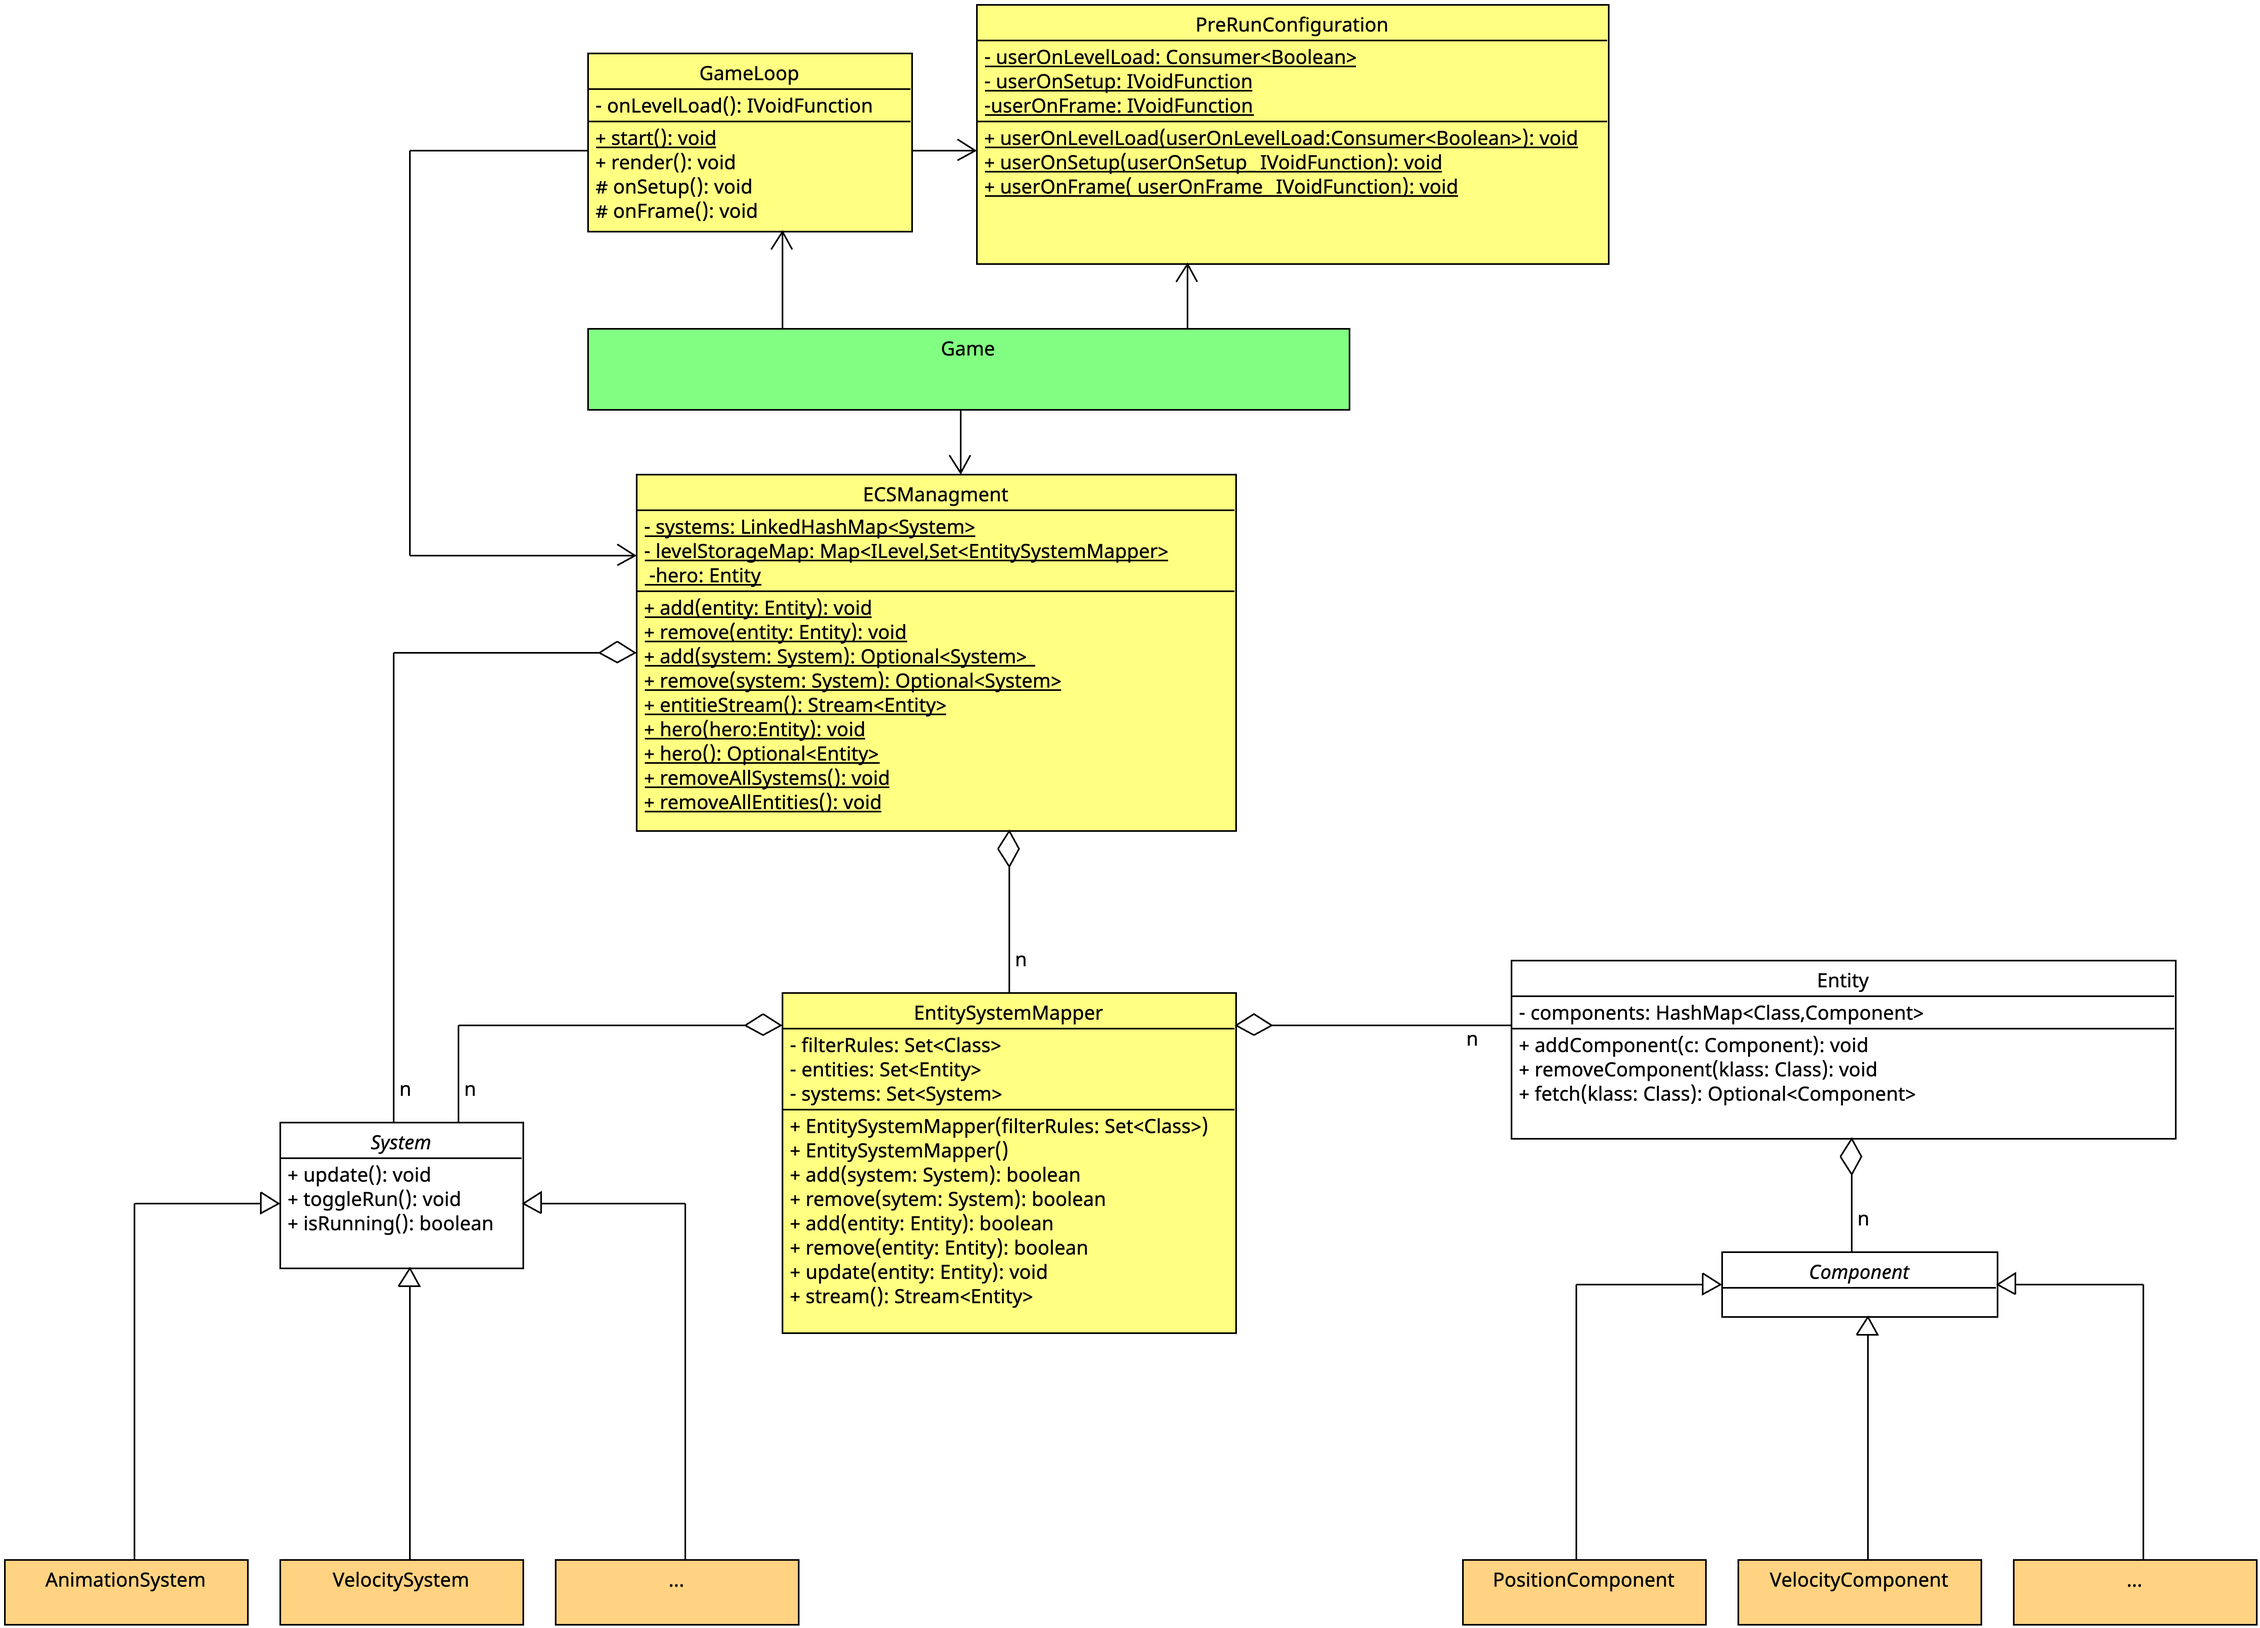
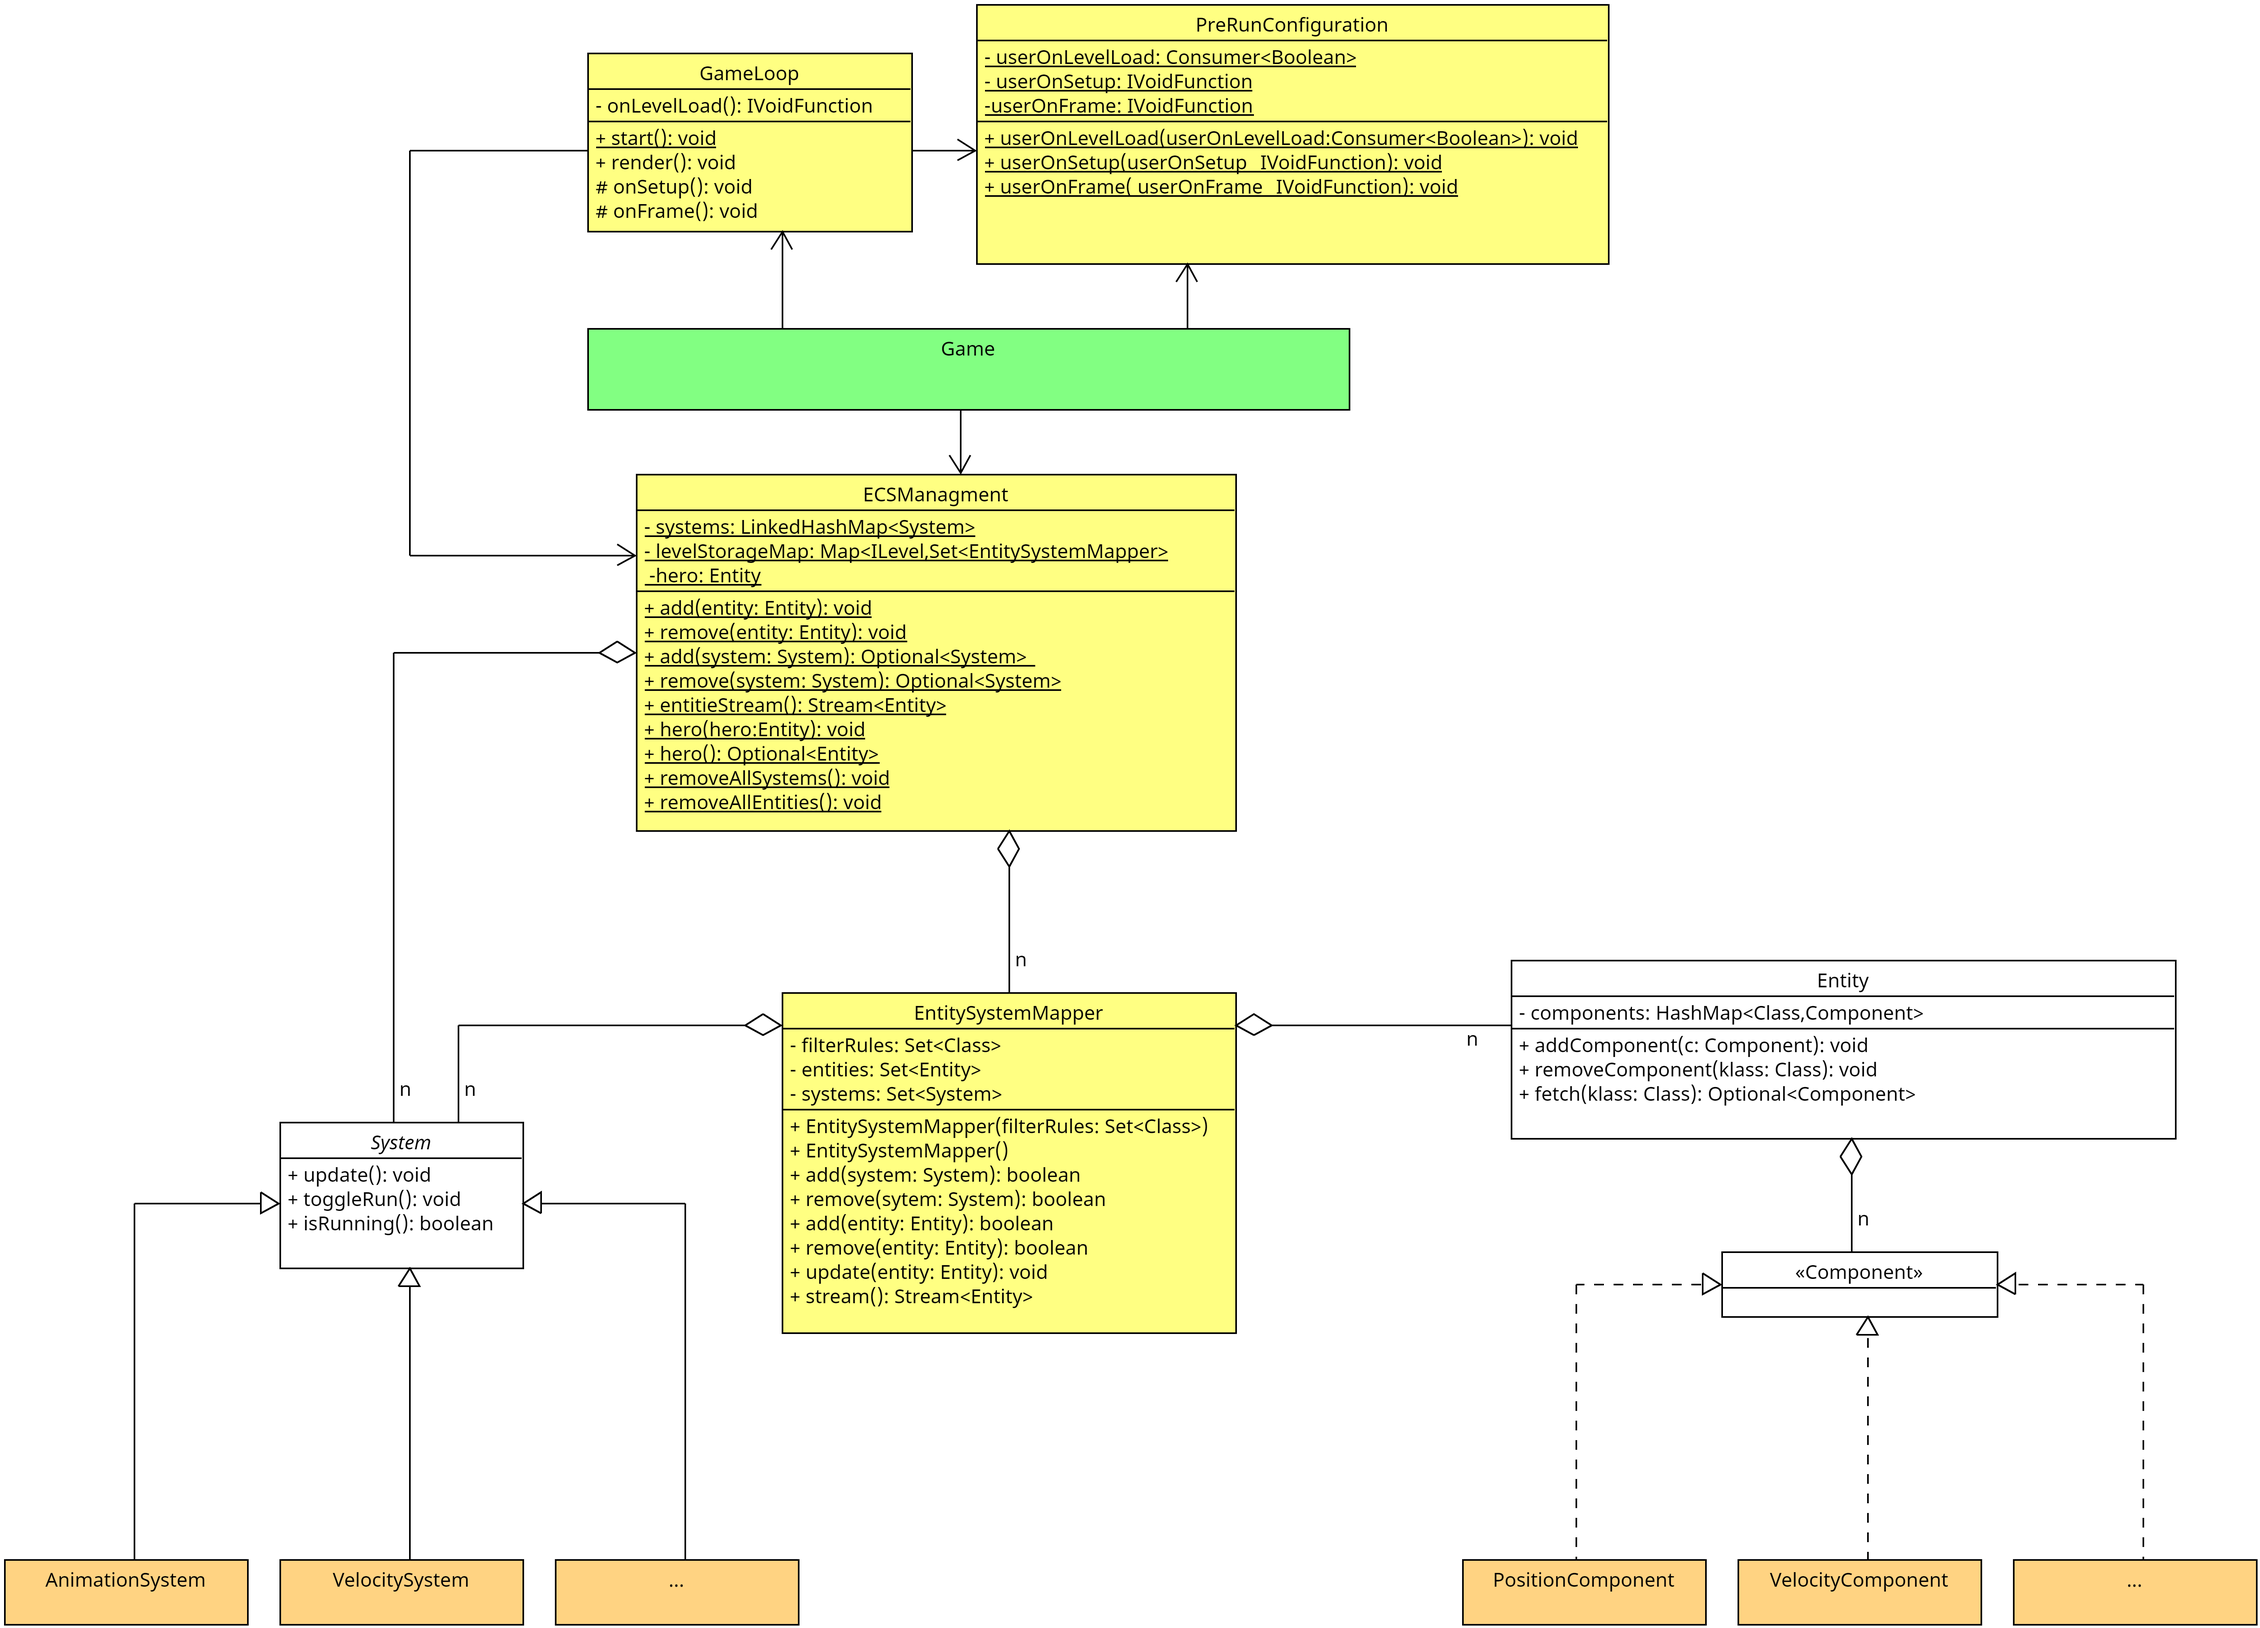
update 'wichtige Klassen'

diff --git a/game/doc/quickstart.md b/game/doc/quickstart.md
@@ -5,7 +5,8 @@ title: "Quickstart: How to Dungeon"
 Dieses Dokument liefert einen Einstieg in das Dungeon. Es erläutert die Installation des Spiels und die ersten Schritte,
 um eigene Inhalte zum Dungeon hinzuzufügen. Es dient als Grundlage für alle weiteren Praktika. Lesen Sie das Dokument
 daher aufmerksam durch und versuchen Sie sich zusätzlich selbst mit dem Aufbau vertraut zu machen. Das Spiel befindet
-sich im [Dungeon-Repo](https://github.com/Programmiermethoden/Dungeon) im Projekt [`game`](https://github.com/Programmiermethoden/Dungeon/tree/master/game).
+sich im [Dungeon-Repo](https://github.com/Programmiermethoden/Dungeon) im Projekt
+[`game`](https://github.com/Programmiermethoden/Dungeon/tree/master/game).
 
 Sie benötigen nur dieses Projekt für die Aufgaben; die zusätzlichen Abhängigkeiten werden automatisch über Gradle
 eingebunden.
@@ -22,12 +23,12 @@ Laden Sie das Projekt herunter und binden Sie es als Gradle-Projekt in Ihre IDE 
 [Anleitung](../../doc/wiki/import-project.md) finden Sie in dem Projekt-Wiki.
 
 Sie können über die run-Funktion Ihrer IDE überprüfen, ob die Installation lauffähig ist. Alternativ können Sie per
-Konsole in das Dungeon-Root-Verzeichnis wechseln und `./gradlew run` ausführen. Es sollte sich das bereits vorimplementierte Spiel starten.
+Konsole in das Dungeon-Root-Verzeichnis wechseln und `./gradlew run` ausführen. Es sollte sich das bereits
+vorimplementierte Spiel starten.
 
 *Hinweis:* Falls Sie Probleme beim Installieren haben, schauen Sie in die
-[Kompatibilitätsliste](../../doc/wiki/jdk-Kompatibilitaet.md) und die
-[FAQ](../../doc/wiki/faq.md). Melden Sie sich frühzeitig, falls Ihr Problem damit
-nicht behoben werden konnte.
+[Kompatibilitätsliste](../../doc/wiki/jdk-Kompatibilitaet.md) und die [FAQ](../../doc/wiki/faq.md). Melden Sie sich
+frühzeitig, falls Ihr Problem damit nicht behoben werden konnte.
 
 ## Grundlagen
 
@@ -47,8 +48,8 @@ Lebenspunkte) - `System`: Systeme beinhalten die eigentliche Logik und agieren a
 
 Weiteres dazu erfahren Sie unter [ECS im Dungeon](ecs_basics.md).
 
-Sie selbst nutzen und erweitern die `Component`s und `System`s der Vorgaben. Sie werden ebenfalls neue Entities,
-Components und Systeme konzipieren und implementieren. So erschaffen Sie z.B. Ihre eigenen Monster und fallengespickte
+Sie selbst nutzen und erweitern die `Component`s und `System`s der Vorgaben. Sie werden ebenfalls neue Entitäten,
+Komponenten und Systeme konzipieren und implementieren. So erschaffen Sie z.B. Ihre eigenen Monster und fallengespickte
 Level.
 
 Sie werden im Laufe der Praktika verschiedene Assets benötigen. Diese liegen per Default im `assets`-Verzeichnis. Sie
@@ -66,35 +67,28 @@ In diesem Abschnitt werden Ihnen die wichtigsten Klassen im Dungeon vorgestellt.
 
 *Anmerkung:* Das UML ist für bessere Lesbarkeit auf die wesentlichen Bestandteile gekürzt.
 
-Die in Grün gekennzeichnete Klasse `Game` ist die Basisklasse, von der alles ausgeht. Die Methode `Game#render` ist die
-Game-Loop. Das ECS wird durch die in weiß gekennzeichneten Klassen `Entity`, `Component` und `System` implementiert.
-Im weiteren Verlauf wird noch genauer hierauf eingegangen.
+Die in Grün markierte Klasse `Game` ist die zentrale API-Klasse für das Framework. Es liefert Ihnen Zugriff auf die in
+Gelb markierten Klassen (Sie können über `Game` auf alle Schnittstellen der in Gelb markierten Klassen zugreifen). Die
+Methode `GameLoop#render` ist die Gameloop.
 
-Neu erzeugte Entitäten speichern sich automatisch im HashSet `entities` der `Game`-Klasse ab. `System`e speichern
-sich automatisch im `SystemController` `systems` der `Game`-Klasse ab.
+Das ECS wird durch die in Weiß markierten Klassen `Entity`, `Component` und `System` gekennzeichnet.
 
-Die Systeme iterieren über die in `Game` gespeicherten Entitäten und greifen über die Methode `Entity#getComponent` auf
-die für die jeweilige Funktionalität benötigten Components zu. Die orangefarbenen `System`s und `Controller` sind in dem
-UML-Diagramm Beispiele für die bereits bestehenden `System`s und `Controller`.
+Die Systeme iterieren über die im `ECSManagement` gespeicherten Entitäten und greifen über die Methode Entity#fetch auf
+die benötigten Komponenten zu.
 
-Die LevelAPI generiert, zeichnet und speichert das aktuelle Level. Klassen, die rot gekennzeichnet sind, gehören zur
-Implementierung von [Level](level/readme.md).
-
-Die in Gelb hinterlegten Klassen stammen aus dem Framework vor der Umstellung auf ECS. Für ein Basisverständnis des
-Dungeons ist ein Wissen über die Funktionalität dieser Klassen nicht nötig.
+Die orangefarbenen `System`s und `Component`s sind im UML Beispiele für die bereits implementierten Systeme und
+Komponenten.
 
 Zusätzlich existieren noch eine Vielzahl an weiteren Hilfsklassen, mit denen Sie mal mehr oder mal weniger Kontakt haben
 werden.
 
 ### Klasse *Game*
 
-*Anmerkung*: Für die bessere Verständlichkeit sprechen wir im folgenden von der Klasse `Game` gemeint
-ist dabei die Kombination der Klassen `PreRunConfiguration`,`ECSManagment` und `GameLoop`.
-Wie oben bereits beschrieben, können Sie alle API-Methoden dieser Klassen über `Game` erreichen. 
+*Anmerkung*: Für die bessere Verständlichkeit sprechen wir im folgenden von der Klasse `Game` gemeint ist dabei die
+Kombination der Klassen `PreRunConfiguration`,`ECSManagment` und `GameLoop`. Wie oben bereits beschrieben, können Sie
+alle API-Methoden dieser Klassen über `Game` erreichen.
 
-
-`Game` ist Ihr Einstiegspunkt in das Dungeon.
-Die Klasse erstellt die Entitäten, Components und Systeme des ECS und
+`Game` ist Ihr Einstiegspunkt in das Dungeon. Die Klasse erstellt die Entitäten, Components und Systeme des ECS und
 beinhaltet die **Game-Loop**.
 
 Die **Game-Loop** ist der wichtigste Bestandteil des Spieles. Sie ist eine Endlosschleife, welche einmal pro Frame
@@ -114,21 +108,24 @@ Zugriff haben, weshalb wir `render` als unseren Game-Loop benutzen.
 
 `Game` implementiert noch weitere wichtige Methoden:
 
-- `setup()` wird zu Beginn der Anwendung aufgerufen. In dieser Methode werden die Objekte (wie die Systeme)
+-   `setup()` wird zu Beginn der Anwendung aufgerufen. In dieser Methode werden die Objekte (wie die Systeme)
     initialisiert und konfiguriert, welche bereits vor dem Spielstart existieren müssen. In der Vorgabe wird hier
     bereits das erste Level geladen und die Systeme angelegt.
-- `userOnSetup(IVoidFucntion)` erlaubt Ihnen einen Callback hinterlegen, welcher wie `setup` zu beginn des Spiels augerufen wird.
-- `frame()` wird in jedem Frame einmal aufgerufen.
-- `userOnFrame(IVoidFucntion)`erlaubt Ihnen einen Callback hinterlegen, welcher wie `frame` einmal pro Frame aufgerufen wird.
-- `onLevelLoad()` wird immer dann aufgerufen, wenn ein Level geladen wird. Hier werden später Entitäten erstellt, die
+-   `userOnSetup(IVoidFucntion)` erlaubt Ihnen einen Callback hinterlegen, welcher wie `setup` zu beginn des Spiels
+    augerufen wird.
+-   `frame()` wird in jedem Frame einmal aufgerufen.
+-   `userOnFrame(IVoidFucntion)`erlaubt Ihnen einen Callback hinterlegen, welcher wie `frame` einmal pro Frame
+    aufgerufen wird.
+-   `onLevelLoad()` wird immer dann aufgerufen, wenn ein Level geladen wird. Hier werden später Entitäten erstellt, die
     initial im Level verteilt werden.
-- `userOnLevelLoad(Consumer<Boolean>)` erlaubt Ihnen eine eigene Callback-Methode hinterlegen. Der Boolean gibt an, ob das level schon einmal geladen wurden.
-- `entitieStream()` liefert einen Stream aller `entitäten` zurück.
-- `add(Entity)` fügt neue Entitäten dem Spiel hinzu.
-- `remove(Entity)` entfernt die Entitäte aus dem Spiel.
-- `add(System)` fügt neue Systeme dem Spiel hinzu.
-- `remove(System)` entfernt das System aus dem Spiel.
-- `run()` startet das Spiel.
+-   `userOnLevelLoad(Consumer<Boolean>)` erlaubt Ihnen eine eigene Callback-Methode hinterlegen. Der Boolean gibt an, ob
+    das level schon einmal geladen wurden.
+-   `entitieStream()` liefert einen Stream aller `entitäten` zurück.
+-   `add(Entity)` fügt neue Entitäten dem Spiel hinzu.
+-   `remove(Entity)` entfernt die Entitäte aus dem Spiel.
+-   `add(System)` fügt neue Systeme dem Spiel hinzu.
+-   `remove(System)` entfernt das System aus dem Spiel.
+-   `run()` startet das Spiel.
 
 ### Entity
 
@@ -142,8 +139,8 @@ Entitäten müssen mit `Game#add` im Spiel registriert werden.
 
 ### Component
 
-Die `Component`s sind die Datensätze der Entitäten und beschreiben dessen Eigenschaften. 
-Eine Entität kann nur eine Instanz eines Component-Typen speichern.
+Die `Component`s sind die Datensätze der Entitäten und beschreiben dessen Eigenschaften. Eine Entität kann nur eine
+Instanz eines Component-Typen speichern.
 
 ### System
 
@@ -158,8 +155,8 @@ Blick in [Eigene Inhalte erstellen](create_own_content.md).
 Zwar gibt es in den Vorlagen bereits einen Helden (den schauen wir uns am Ende dieses Kapitels genauer an), trotzdem
 wird Ihnen hier erklärt, wie Sie Ihre erste eigene Entität in das Spiel implementieren.
 
-*Hinweis:* Wenn Sie mitprogrammieren wollen, kommentieren Sie in der
-Methode `core.Game#setup()` die Zeile `hero = new Hero();` aus.
+*Hinweis:* Wenn Sie mitprogrammieren wollen, kommentieren Sie in der Methode `core.Game#setup()` die Zeile
+`hero = new Hero();` aus.
 
 ### Held als Entität erstellen
 
@@ -207,8 +204,8 @@ public class MyHero extends Entity {
 *Hinweis:* Wenn Sie mal ein `Component` einer Entität abfragen wollen, nutzen Sie die Methode `Entity#getComponent` und
 übergeben Sie die `class` des gesuchten `Component`s. Beispiel: `hero.getComponent(PositionComponent.class);`
 
-Jetzt muss unser Held noch in das Spiel geladen werden. Dafür gehen wir in die Klasse `core.Game` und fügen den
-Helden an erster Stelle in `Game#setup` hinzu, indem Sie die bereits existierende Referenz `hero` initialisieren.
+Jetzt muss unser Held noch in das Spiel geladen werden. Dafür gehen wir in die Klasse `core.Game` und fügen den Helden
+an erster Stelle in `Game#setup` hinzu, indem Sie die bereits existierende Referenz `hero` initialisieren.
 
 ``` java
     /** Called once at the beginning of the game. */
@@ -381,8 +378,8 @@ Feuerball-[Skill](../game/doc/ecs/skills/readme.md). Dieser wird in `Hero#setupF
 
 In der Standardkonfiguration können Sie den Feuerball in Richtung Ihres Mauscursors mit der Taste R abfeuern.
 
-Zusätzlich besitzt der Held ein [`HitboxComponent`](../game/doc/ecs/components/collision_component.md). Damit kann er mit anderen
-Entitäten, die ebenfalls ein `HitboxComponent` haben, kollidieren.
+Zusätzlich besitzt der Held ein [`HitboxComponent`](../game/doc/ecs/components/collision_component.md). Damit kann er
+mit anderen Entitäten, die ebenfalls ein `HitboxComponent` haben, kollidieren.
 
 ``` java
     private void setupHitboxComponent() {
